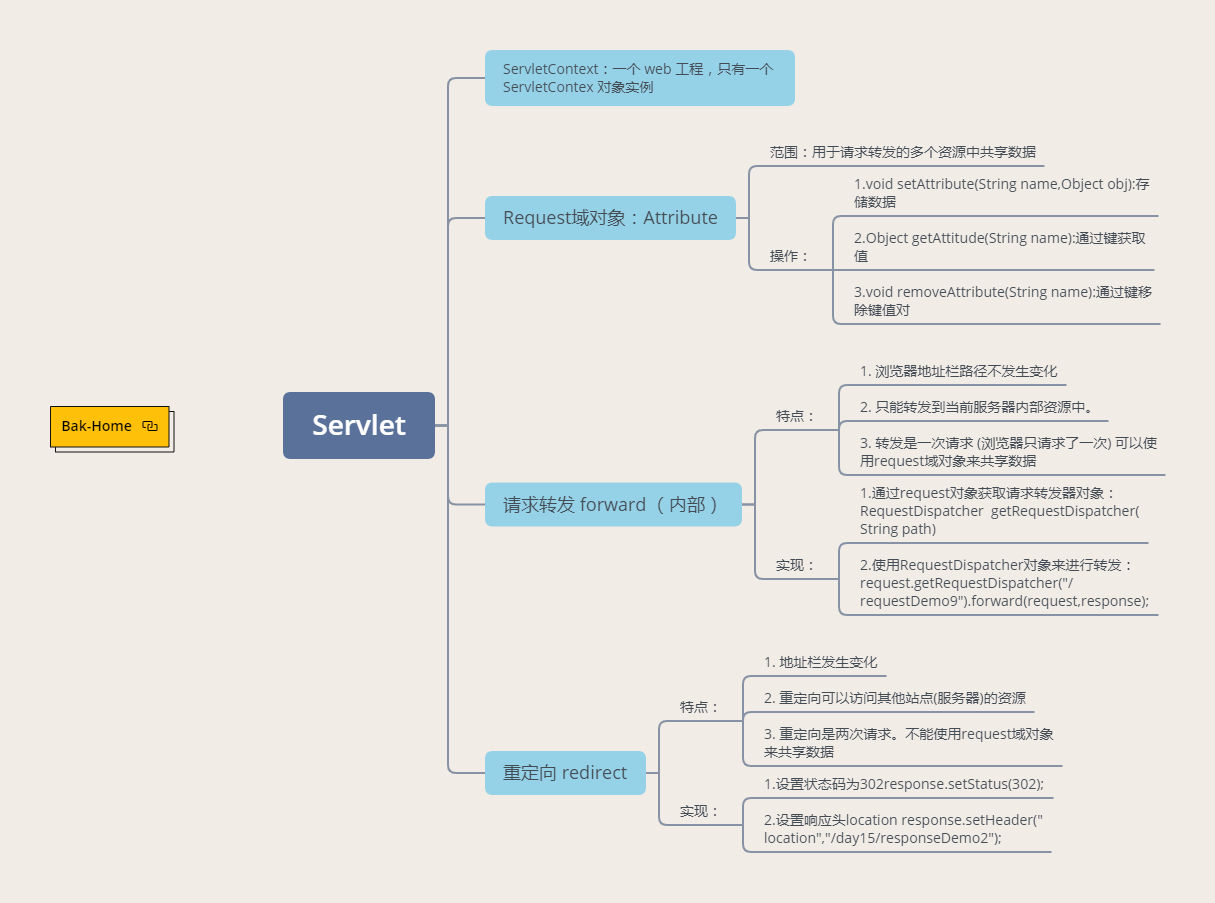
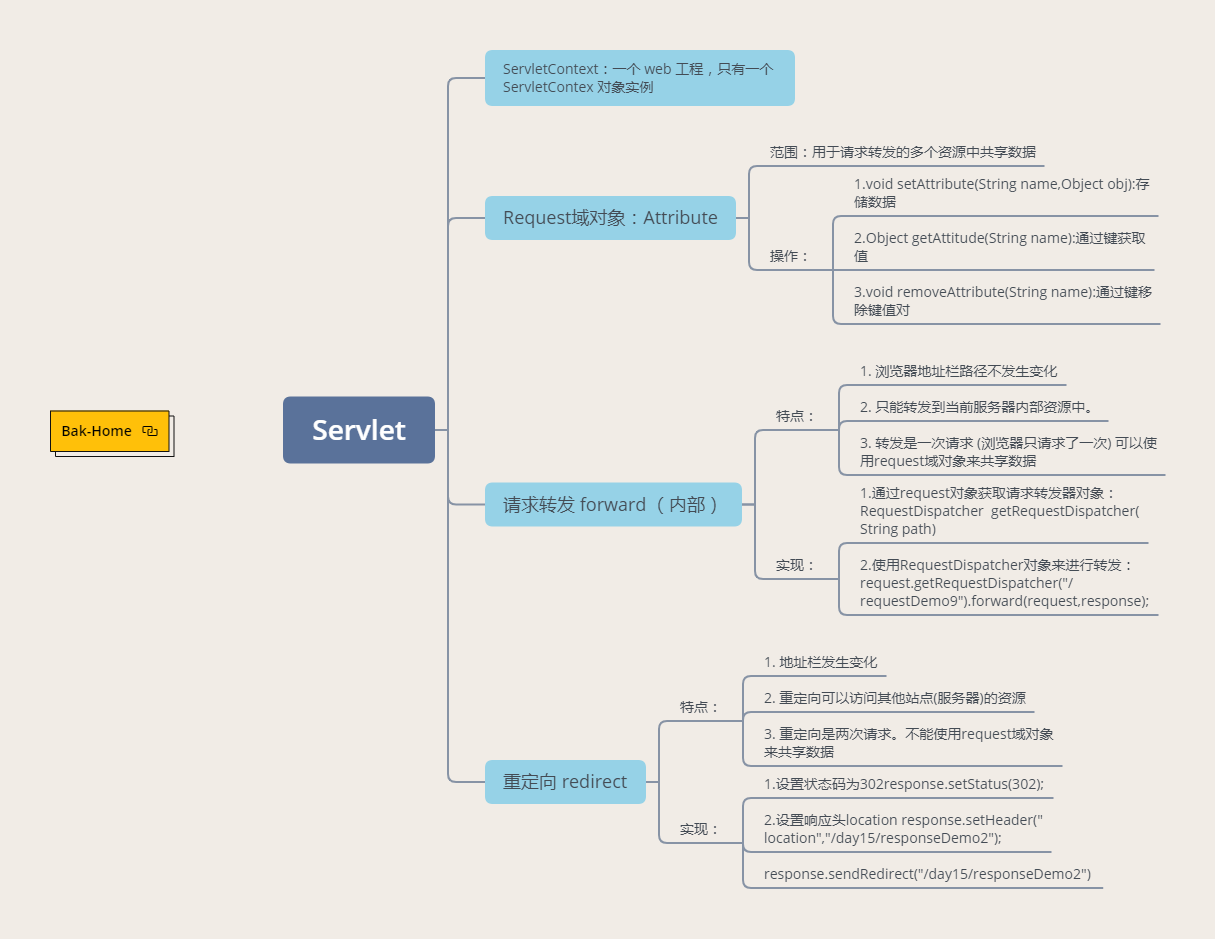
重定向实现方式更新

diff --git a/0.markdown/web-servlet.md b/0.markdown/web-servlet.md
@@ -37,6 +37,7 @@
 
 - 1.设置状态码为302response.setStatus(302);
 - 2.设置响应头location response.setHeader("location","/day15/responseDemo2");
+- response.sendRedirect("/day15/responseDemo2")
 
 ## Bak-Home
 
